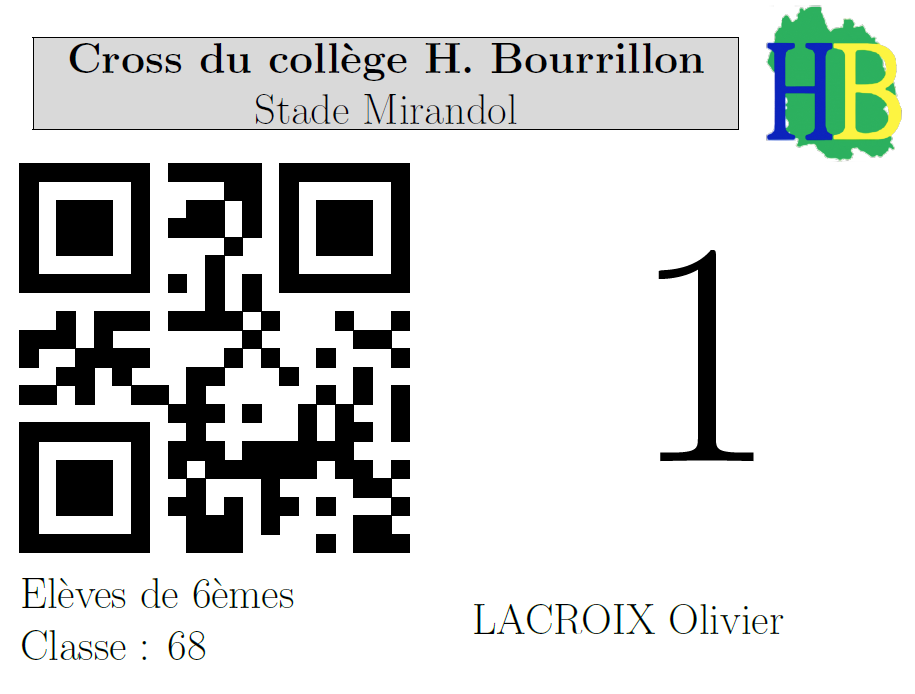
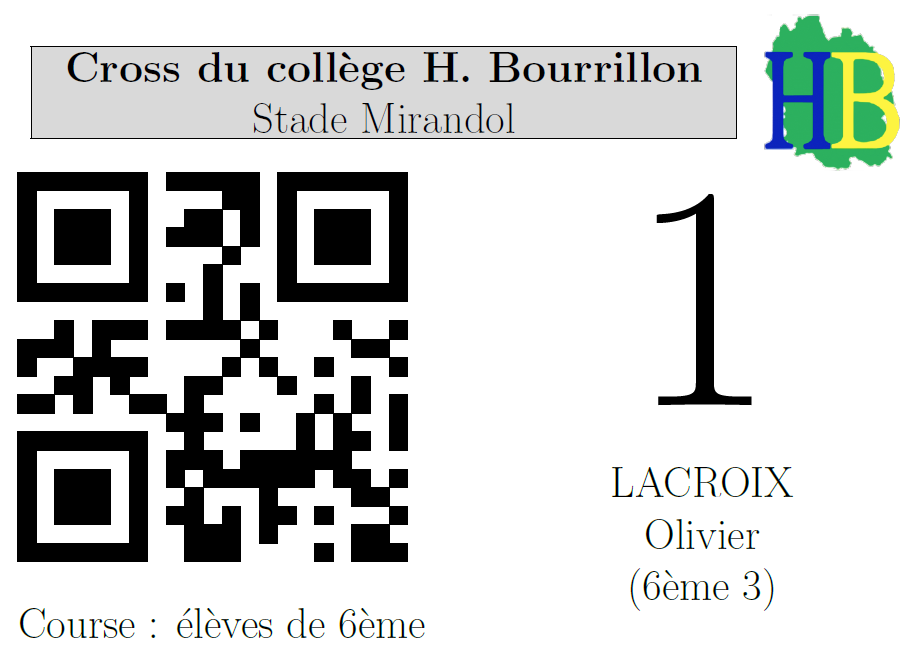
nécessaire pour nouveaux dossards UNSS

diff --git a/FonctionsMetiers.py b/FonctionsMetiers.py
@@ -424,7 +424,7 @@ class Coureur():#persistent.Persistent):
             sec = "0" + sec
         return heures + ":" + minu + ":" + sec
     def tempsFormate(self) :
-        print(self.dossard,self.nom,self.temps)
+        #print(self.dossard,self.nom,self.temps)
         if self.temps > 0 : # ajouté suite au coureurVide utile pour affiché le temps potentiel du prochain coureur. 
             partieDecimale = str(round(((self.temps - int(self.temps))*100)))
             if len(partieDecimale) == 1 :
@@ -1864,7 +1864,7 @@ def generateDossardsNG() :
                     cl = ""
                 chaineComplete = modele.replace("@nom@",coureur.nom.upper()).replace("@prenom@",coureur.prenom).replace("@dossard@",str(coureur.dossard)).replace("@classe@",cl).replace("@categorie@",cat)\
                                  .replace("@intituleCross@",Parametres["intituleCross"]).replace("@lieu@",Parametres["lieu"])\
-                                 .replace("@groupement@",groupementAPartirDUneCategorie(cat).nom)
+                                 .replace("@groupement@",groupementAPartirDUneCategorie(cat).nom).replace("@etablissement@",coureur.etablissement)
                 f.write(chaineComplete)
                 with open(TEXDIR+ groupementNomPourNomFichier + ".tex", 'a',encoding="utf-8") as fileCat :
                     fileCat.write(chaineComplete+ "\n\n")
@@ -1993,7 +1993,7 @@ def generateDossardsAImprimer() :
                 retour.append(coureur.dossard)
                 chaineComplete = modele.replace("@nom@",coureur.nom.upper()).replace("@prenom@",coureur.prenom).replace("@dossard@",str(coureur.dossard)).replace("@classe@",coureur.classe)\
                                  .replace("@categorie@",cat).replace("@intituleCross@",Parametres["intituleCross"]).replace("@lieu@",Parametres["lieu"])\
-                                 .replace("@groupement@",groupementAPartirDUneCategorie(cat).nom)
+                                 .replace("@groupement@",groupementAPartirDUneCategorie(cat).nom).replace("@etablissement@",coureur.etablissement)
                 f.write(chaineComplete + "\n\n")
                 generateQRcode(coureur.dossard)
         ## f.write(chaineComplete+ "\n\n")
@@ -2033,7 +2033,7 @@ def generateDossard(coureur) :
         cat = coureur.categorie(Parametres["CategorieDAge"])
         chaineComplete = modele.replace("@nom@",coureur.nom.upper()).replace("@prenom@",coureur.prenom).replace("@dossard@",str(coureur.dossard)).replace("@classe@",coureur.classe)\
             .replace("@categorie@",cat).replace("@intituleCross@",Parametres["intituleCross"]).replace("@lieu@",Parametres["lieu"])\
-            .replace("@groupement@",groupementAPartirDUneCategorie(cat).nom)
+            .replace("@groupement@",groupementAPartirDUneCategorie(cat).nom).replace("@etablissement@",coureur.etablissement)
         f.write(chaineComplete+ "\n\n")
         f.write("\\end{document}")
     f.close()

diff --git a/modeles/exemple-modele-3.tex b/modeles/exemple-modele-3.tex
@@ -25,16 +25,16 @@
 {}\hfill {}
 \fcolorbox{black}{gray!30}{\begin{minipage}{0.75\textwidth}
 {}\hfill {}
-\textbf{Cross du collège H. Bourrillon}
+\textbf{Cross départemental UNSS}
 {}\hfill {}
 
 {}\hfill {}
-Stade Mirandol
+Rouffiac
 {}\hfill {}
 \end{minipage}}
 {}\hfill {}
 \begin{minipage}{0.15\linewidth}
-\includegraphics[width=\textwidth]{../logo-HB.png}
+\includegraphics[width=\textwidth]{../logo-UNSS.png}
 \end{minipage}
 {}\hfill {}
 
@@ -47,7 +47,7 @@ Stade Mirandol
 
 \vspace{0.5cm}
 
-	Course : élèves de 6ème
+	Course : Minimes
 \end{minipage}
 \begin{minipage}{0.5\linewidth}
 {}\hfill {}
@@ -61,7 +61,7 @@ Stade Mirandol
 	
 	Olivier
 	
-	(6ème 3)
+	(collège H. Bourrillon)
 \end{center}
 \end{minipage}
 
